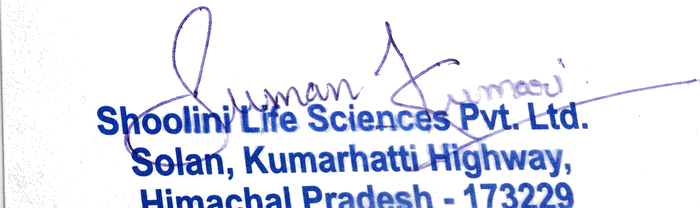
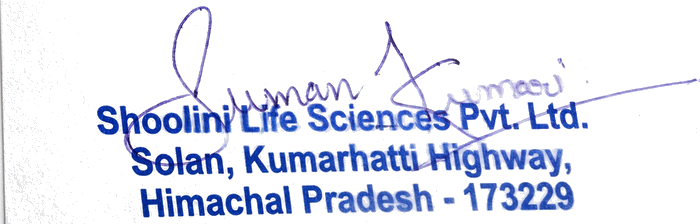
Fix stamp image crop, simplify bold text styling

Changed region(s): [[0.12, 0.0288, 1.0, 1.0], [0.0, 0.9519, 0.03, 1.0], [0.0, 0.8654, 0.03, 0.9231]]

diff --git a/backend/src/templates/quotation.js b/backend/src/templates/quotation.js
@@ -20,11 +20,6 @@ const styles = `
     font-size: 12px;
     line-height: 1.45;
   }
-  /* -webkit-text-stroke guarantees a visibly bold look even on hosts
-     where the font-weight:700 face isn't actually installed (a common
-     issue for headless Chromium on minimal Linux servers) — it draws a
-     thin outline in the same color, thickening the letterforms
-     regardless of which font actually ends up rendering. */
   .top-bar {
     height: 5px;
     background: linear-gradient(90deg, ${GREEN} 0%, ${GREEN_DARK} 100%);
@@ -44,11 +39,10 @@ const styles = `
   .letterhead-logo { display: flex; align-items: center; gap: 12px; }
   .letterhead-logo img { height: 46px; }
   .letterhead-details { font-size: 10.5px; color: #444; line-height: 1.55; }
-  .letterhead-details strong { color: #222; font-weight: 700; -webkit-text-stroke: 0.3px currentColor; }
+  .letterhead-details strong { color: #222; font-weight: 700; }
   .accreditation {
     font-size: 10px;
     font-weight: 700;
-    -webkit-text-stroke: 0.3px #fff;
     color: #fff;
     background: ${GREEN_DARK};
     text-align: center;
@@ -69,7 +63,6 @@ const styles = `
   .meta-row .quote-date {
     font-size: 12px;
     font-weight: 700;
-    -webkit-text-stroke: 0.35px currentColor;
     background: ${GRAY_LIGHT};
     border: 1px solid ${GRAY};
     border-radius: 4px;
@@ -89,20 +82,19 @@ const styles = `
   .letter-fields div { margin-bottom: 2px; }
   .letter-fields .label {
     font-weight: 700;
-    -webkit-text-stroke: 0.35px currentColor;
     color: ${GREEN_DARK};
     display: inline-block;
     min-width: 100px;
   }
   .letter-fields .subject-line { font-size: 12.5px; }
-  .letter-fields .subject-value { font-weight: 700; -webkit-text-stroke: 0.35px currentColor; color: #1a1a1a; }
+  .letter-fields .subject-value { font-weight: 700; color: #1a1a1a; }
 
   .greeting { margin: 10px 0; }
   .greeting p { margin: 3px 0; }
-  .greeting .greet-line { font-weight: 700; -webkit-text-stroke: 0.3px currentColor; color: #222; }
+  .greeting .greet-line { font-weight: 700; color: #222; }
 
   .signoff { margin: 10px 0 0 0; }
-  .signoff .label { font-weight: 700; -webkit-text-stroke: 0.3px currentColor; text-decoration: underline; color: ${GREEN_DARK}; }
+  .signoff .label { font-weight: 700; text-decoration: underline; color: ${GREEN_DARK}; }
   .signoff div { margin-top: 1px; }
 
   table.items {
@@ -124,13 +116,11 @@ const styles = `
     background: ${GREEN};
     color: #fff;
     font-weight: 700;
-    -webkit-text-stroke: 0.4px #fff;
     text-transform: uppercase;
     letter-spacing: 0.2px;
     font-size: 10.2px;
   }
   table.items tbody tr:nth-child(even) { background: ${GRAY_LIGHT}; }
-  table.items td strong { -webkit-text-stroke: 0.3px currentColor; }
 
   table.totals {
     width: 320px;
@@ -151,7 +141,6 @@ const styles = `
     background: ${GREEN};
     color: #fff;
     font-weight: 700;
-    -webkit-text-stroke: 0.35px #fff;
     font-size: 13px;
   }
 
@@ -163,7 +152,6 @@ const styles = `
   }
   .signature-block .title {
     font-weight: 700;
-    -webkit-text-stroke: 0.3px currentColor;
     color: ${GREEN_DARK};
     margin-bottom: 3px;
     font-size: 11.5px;
@@ -179,7 +167,6 @@ const styles = `
   }
   .terms .heading {
     font-weight: 700;
-    -webkit-text-stroke: 0.3px #fff;
     color: #fff;
     background: ${GREEN_DARK};
     display: inline-block;
